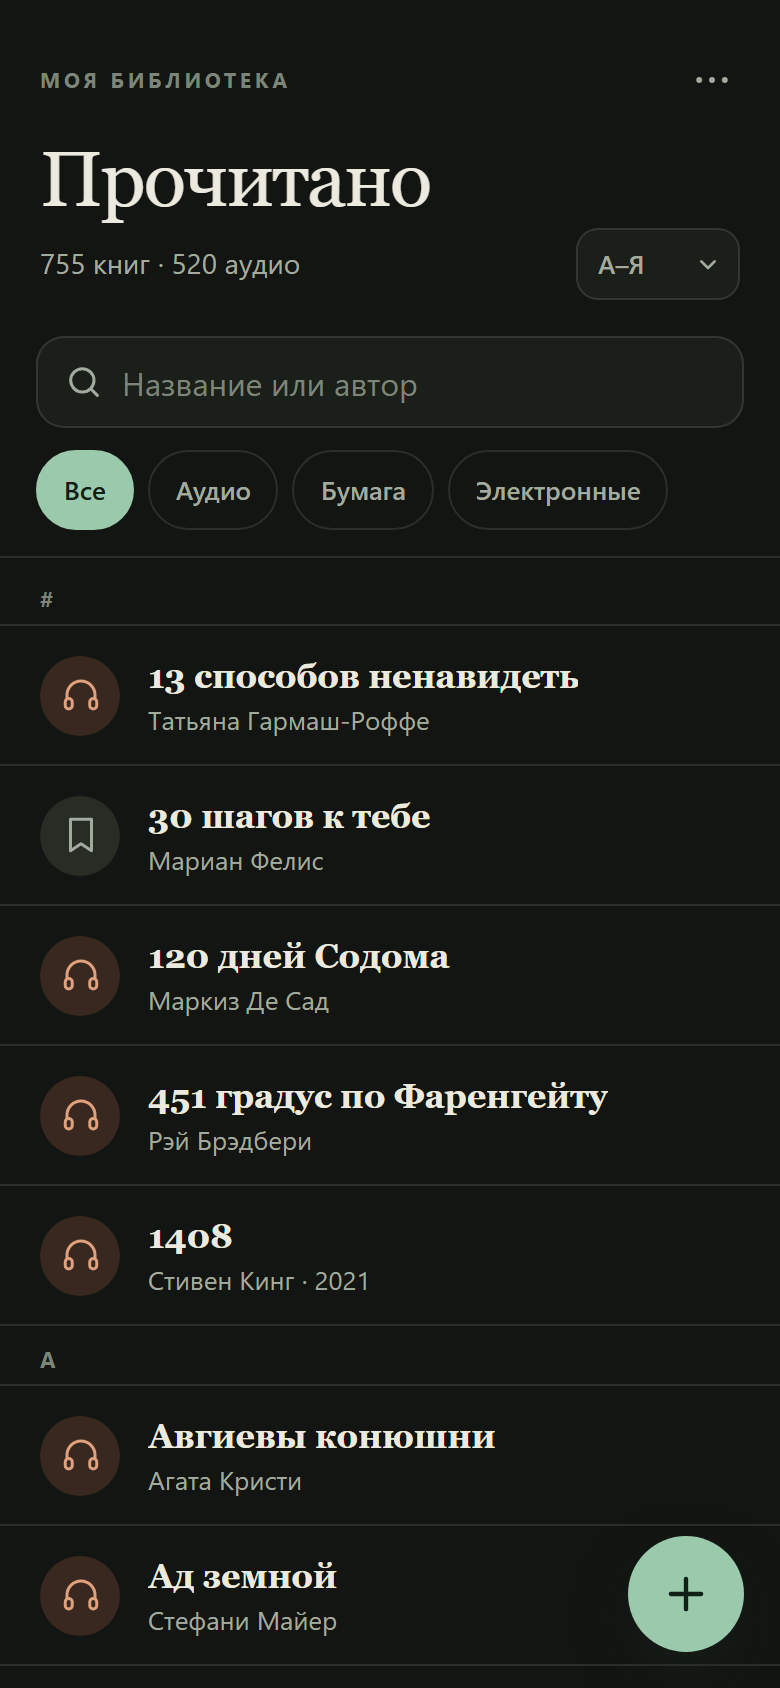
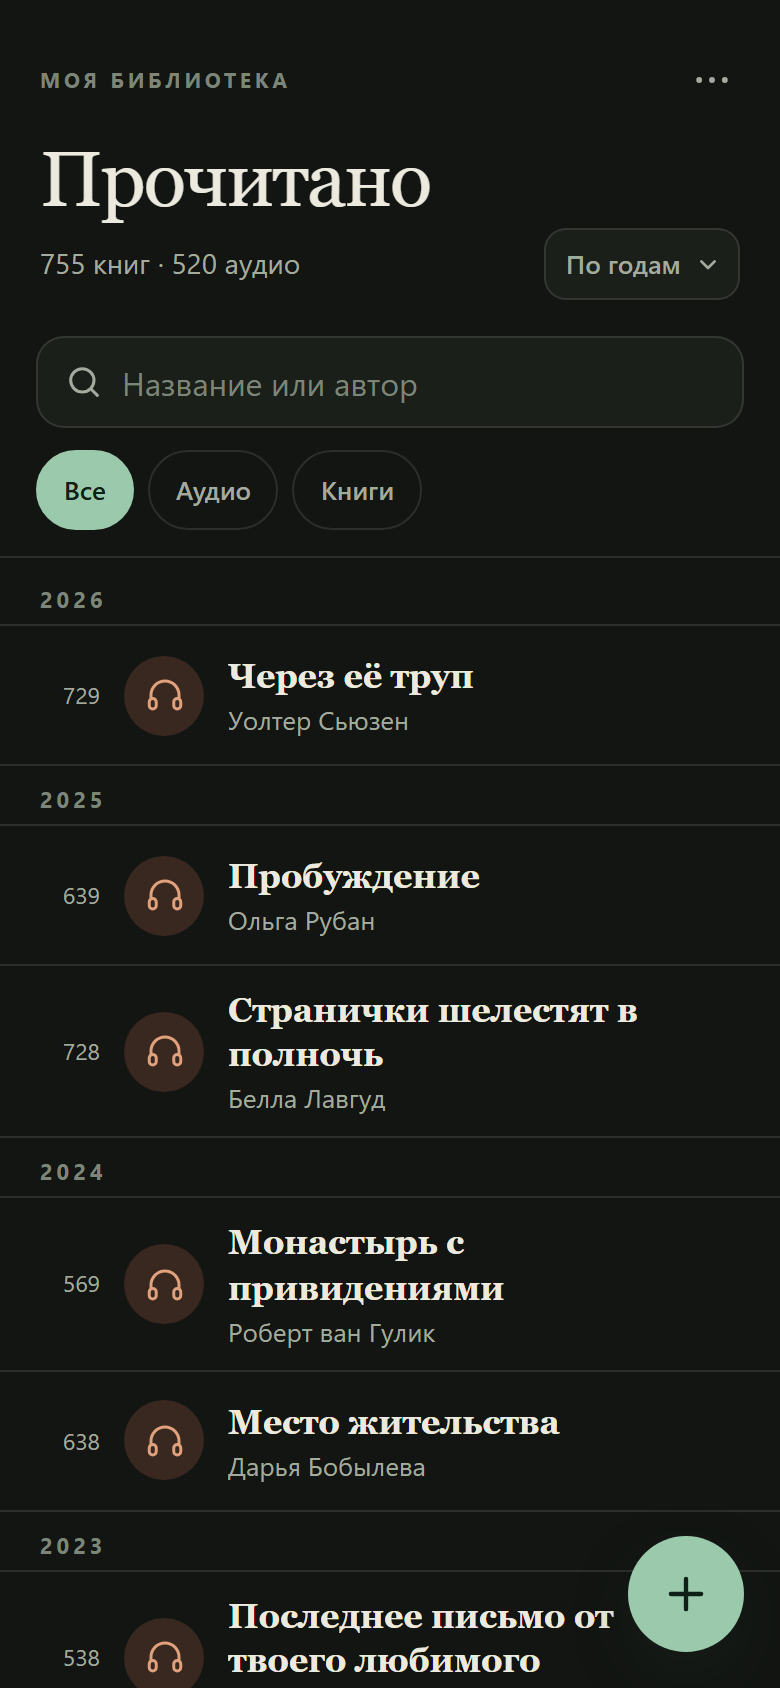
Обновляет документацию, скриншоты и smoke-проверки
README описывает номера docx, годы, два формата и миграцию books:v1. Smoke проверяет годы, номер 639, оба фильтра, миграцию старых данных и офлайн-режим.

Проверено: npm test и npm run smoke.

diff --git a/README.md b/README.md
@@ -9,9 +9,11 @@
 ## Что умеет
 
 - **755 книг** из `Книги.docx` уже внутри: 765 исходных строк, 10 дублей удалено.
+- Номера книг соответствуют docx: от 1 до 765, номера удалённых дублей отсутствуют.
+- Основная группировка — по годам прочтения: 2026 → 2018, затем «Без года». Внутри года книги идут по номерам docx.
 - Поиск по названию и автору: без учёта регистра, `ё = е`, несколько слов ищутся одновременно.
-- Фильтр по формату: аудио / бумага / электронная / без формата.
-- Сортировка: по алфавиту с группами А–Я или сначала новые.
+- Фильтр по формату: только «Аудио» и «Книги».
+- Сортировка: по годам, по алфавиту с группами А–Я или сначала новые.
 - Добавление, редактирование и удаление книги. Удаление с подтверждением и кнопкой «Отменить».
 - Данные не уходят в сеть: только `localStorage` на устройстве, без аккаунтов и сервера.
 - Экспорт и импорт JSON — ручной бэкап через меню «⋯».
@@ -39,7 +41,7 @@ npm run serve     # http://127.0.0.1:8080/
 npm run smoke
 ```
 
-Скрипт запускает headless Chrome, проверяет поиск, фильтр, добавление, редактирование, удаление, отмену, перезагрузку и офлайн-режим, а также делает скриншоты в `screenshots/`. Нужен установленный Chrome; при нестандартном пути задайте `CHROME_PATH`.
+Скрипт запускает headless Chrome, проверяет группы по годам, номера из docx, поиск, фильтр, добавление, редактирование, удаление, отмену, миграцию старых данных, перезагрузку и офлайн-режим, а также делает скриншоты в `screenshots/`. Нужен установленный Chrome; при нестандартном пути задайте `CHROME_PATH`.
 
 Проверка именно опубликованной версии:
 
@@ -69,7 +71,7 @@ $env:SMOKE_URL='https://zizaradzr.github.io/books/'; npm run smoke
 
 ## Данные
 
-- Ключ хранения: `books:v1` в `localStorage`.
+- Ключ хранения: `books:v2` в `localStorage`. Старые данные из `books:v1` мигрируют автоматически: формат упрощается до «Книга/Аудио», номера добавляются, сам старый ключ остаётся резервной копией.
 - При первом запуске список из `src/seed.js` записывается в `localStorage`; дальше приложение читает только его.
 - Очистка данных сайта в Safari удалит список. Перед этим сделайте **Экспорт списка**.
 - Импорт заменяет текущий список после подтверждения. Формат — JSON из экспорта.
@@ -92,7 +94,7 @@ npm test
 После правок в `src/app.js` или `styles.css` поднимите версию кэша в `sw.js`:
 
 ```js
-const CACHE = "prochitano-v2";
+const CACHE = "prochitano-v3";
 ```
 
 Иначе установленное приложение может показать старые файлы из кэша до фонового обновления.
@@ -117,10 +119,10 @@ test/                 unit-тесты
 ## Решения по данным
 
 - Статус только «Прочитано» — по договорённости; отдельного поля статуса нет.
-- Поля книги: название, автор, формат, год прочтения. Год и автор необязательны.
+- Поля книги: номер, название, автор, формат, год прочтения. Номер присваивается автоматически (следующий после максимального), год и автор необязательны.
+- 520 аудиокниг и 235 обычных книг. Всё, что не помечено в docx как аудиокнига, считается обычной книгой.
 - 236 записей без автора: в исходном docx автора не было, их можно дополнить вручную.
-- 231 запись без формата: в docx помечены только аудиокниги и четыре «книги с работы»; остальным формат не приписывался.
-- Дубли: удалены точные повторы и длинные названия-повторы без автора. Пара коротких «Маскарад» оставлена, потому что это могут быть разные произведения.
+- Дубли: удалены точные повторы и длинные названия-повторы без автора. Пара коротких «Маскарад» оставлена, потому что это могут быть разные произведения. Из-за этого 10 номеров docx не используются.
 
 ## Лицензия
 
